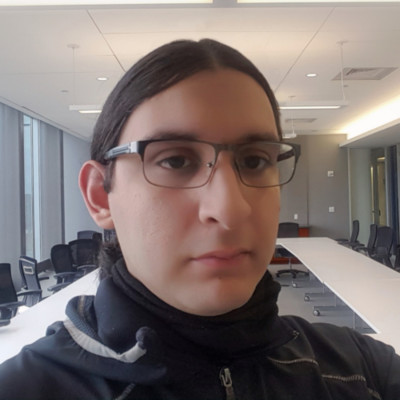
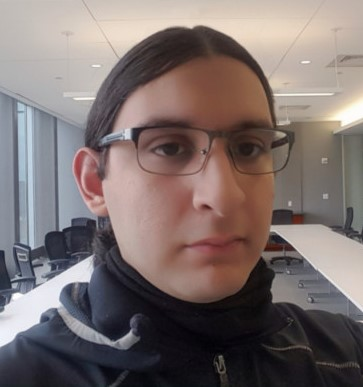
Add files via upload

diff --git a/index.html b/index.html
@@ -63,10 +63,11 @@
   <!-- Portfolio Gallery Grid -->
       <div class="col-lg-12 col-sm-12 container text-center">
         <h2 class="text-center"> Meet the Team!</h2>
+        <br>
           <div class="row">
             <div class="col-lg-4 col-sm-12">
             <div class="content">
-              <img src="images/ryan.jpg" alt="ryan" style="width:50%">
+              <img class="rounded-circle" src="images/ryan.jpg" alt="ryan" style="width:50%">
               <h3>Ryan Allen</h3>
               <p><b>Role: </b>Documentation/ Prototype Developer</br>
                 <b>Email: </b>Ryan_Allen1@student.uml.edu </br>
@@ -76,7 +77,7 @@
             </div>
             <div class="col-lg-4 col-sm-12">
             <div class="content">
-              <img src="images/joseph.jpg" alt="joseph" style="width:50%">
+              <img class="rounded-circle" src="images/joseph.jpg" alt="joseph" style="width:50%">
               <h3>Joseph Calles</h3>
               <p><b>Role: </b>Project Manager/ Documentation</br>
                 <b>Email: </b>Joseph_Calles@student.uml.edu </br>
@@ -86,7 +87,7 @@
             </div>
             <div class="col-lg-4 col-sm-12">
             <div class="content">
-              <img src="images/likhitha.jpg" alt="Likhitha" style="width:50%">
+              <img class="rounded-circle" src="images/likhitha.jpg" alt="Likhitha" style="width:50%">
               <h3>Likhitha Eda</h3>
               <p><b>Role: </b>Documentation/ Web Developer </br>
                 <b>Email: </b>LikhithaDivyani_Eda@student.uml.edu </br>
@@ -96,7 +97,7 @@
             </div>
             <div class="col-lg-4 col-sm-12">
             <div class="content">
-              <img src="images/tammy.jpg" alt="tammy" style="width:50%">
+              <img class="rounded-circle" src="images/tammy.jpg" alt="tammy" style="width:50%">
               <h3>Tammy Liu</h3>
               <p><b>Role: </b>Documentation/ Web Developer</br>
                 <b>Email: </b>Tammy_Liu@student.uml.edu </br>
@@ -106,7 +107,7 @@
             </div>
             <div class="col-lg-4 col-sm-12">
             <div class="content">
-              <img src="images/nicholas.jpg" alt="nicholas" style="width:50%">
+              <img class="rounded-circle" src="images/nicholas.jpg" alt="nicholas" style="width:50%">
               <h3>Nicholas Park</h3>
               <p><b>Role: </b>Documentation/ Prototype Developer</br>
                   <b>Email: </b>Nicholas_Park@student.uml.edu</br>

diff --git a/prototype.html b/prototype.html
@@ -48,5 +48,13 @@
       </a>
     </div>
 
+    <br>
+
+    <div class="container text-center">
+      <a href="https://github.com/Allen3Ryan/MacroBuddy" download rel="noopener noreferrer">
+        <button type="button" class="btn btn-success">Download File from Github</button>
+      </a>
+    </div>
+
   </body>
 </html>
